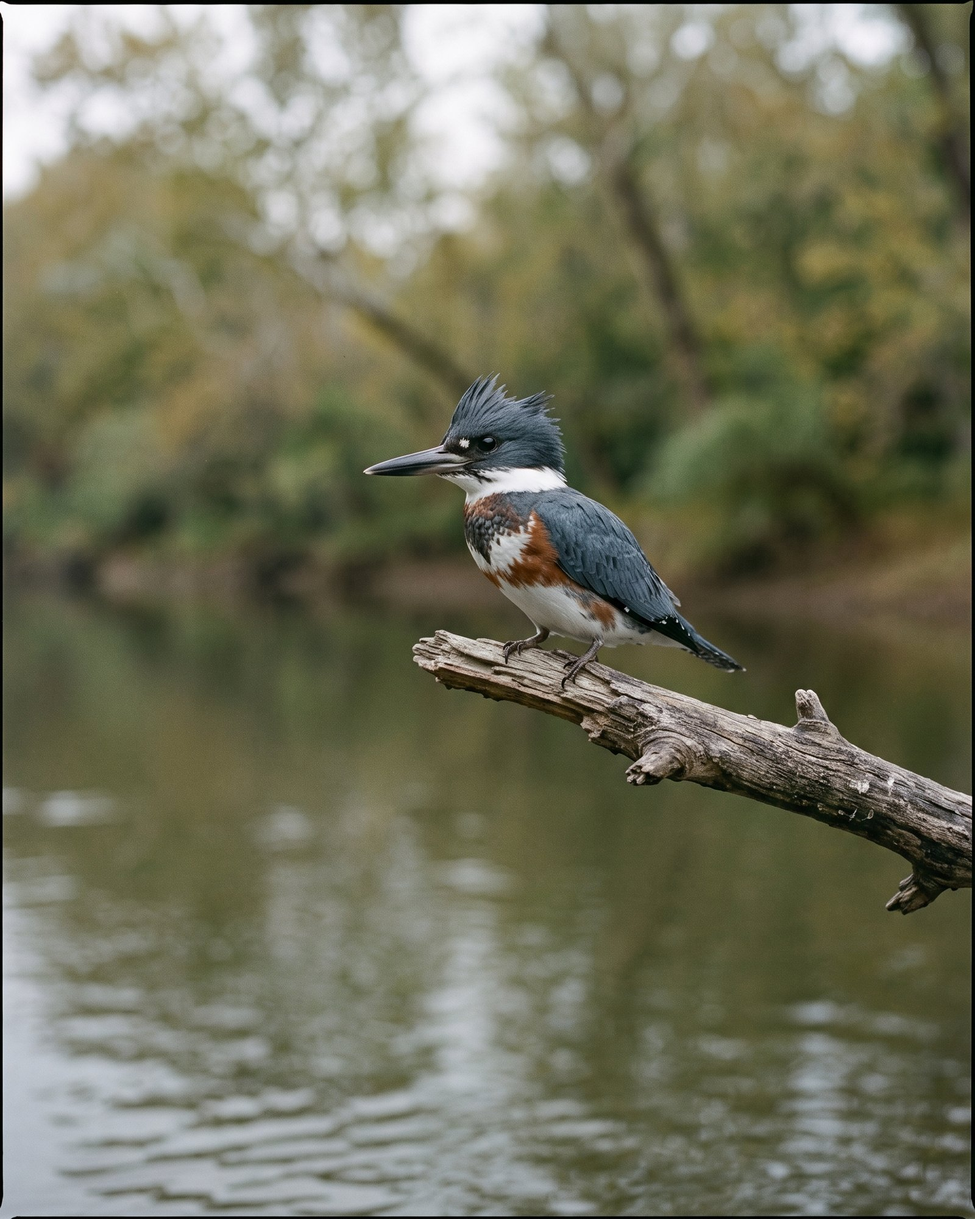
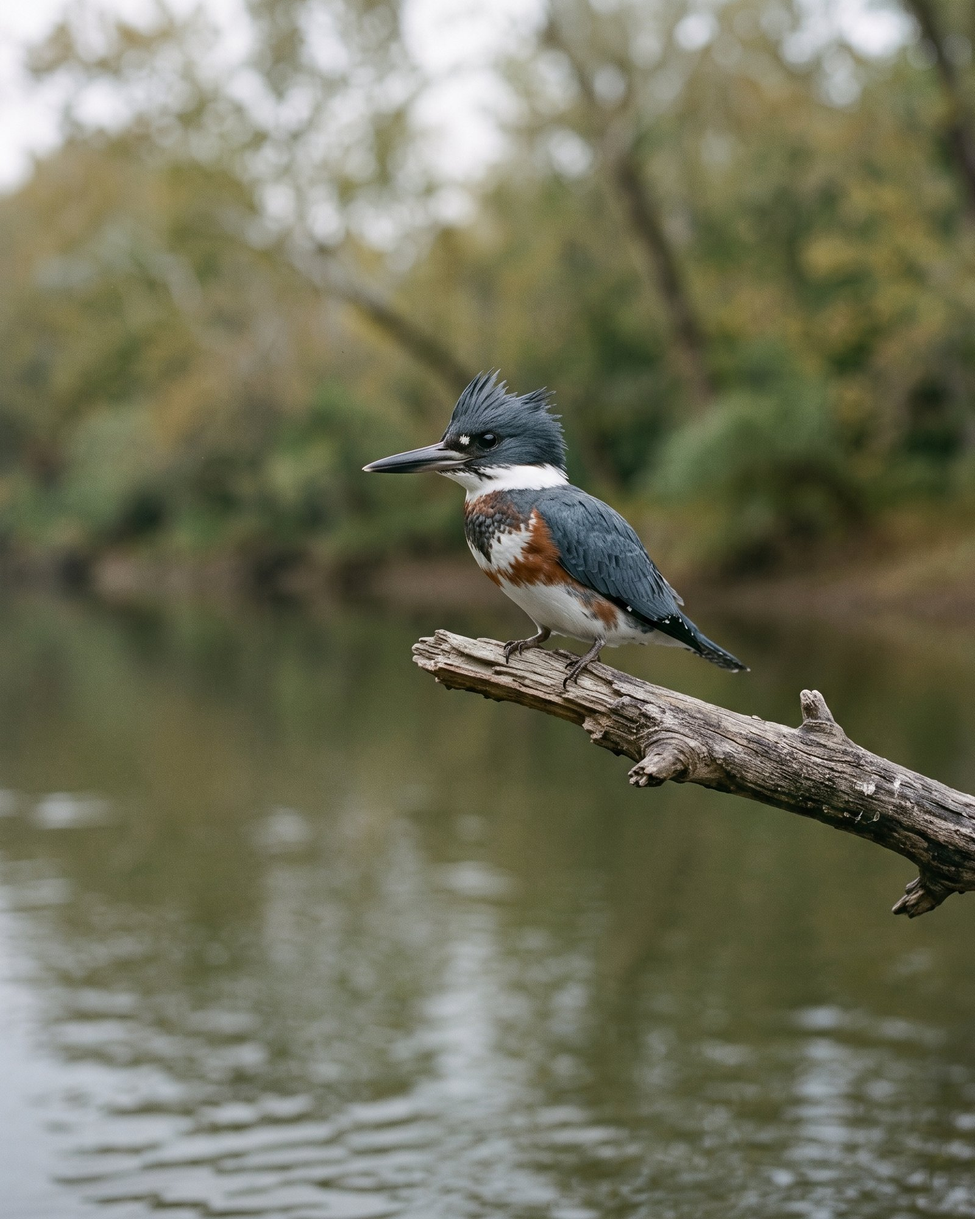
Sallow River Alliance: no dark frames, lighter pages
Gemini drew a thin dark frame round three portrait photos; cut off.
WebP quality set explicitly (62; the config value never reached the
URLs) and the Newsreader italic font dropped: the logo, pull quotes,
month headings and step numbers are upright now. Lighthouse performance
back to 93-98 with the real photos.

diff --git a/app/assets/css/main.css b/app/assets/css/main.css
@@ -9,13 +9,6 @@
   font-display: swap;
 }
 @font-face {
-  font-family: 'Newsreader';
-  src: url('/fonts/newsreader-latin-wght-italic.woff2') format('woff2');
-  font-weight: 200 800;
-  font-style: italic;
-  font-display: swap;
-}
-@font-face {
   font-family: 'Public Sans';
   src: url('/fonts/public-sans-latin-wght-normal.woff2') format('woff2');
   font-weight: 100 900;
@@ -242,7 +235,7 @@ a:hover {
   margin: 2.4rem 0;
   padding: 0.2rem 0 0.2rem 1.5rem;
   border-left: 4px solid var(--marigold);
-  font: italic 400 clamp(1.5rem, 2.8vw, 2.1rem) / 1.3 var(--serif);
+  font: 350 clamp(1.5rem, 2.8vw, 2.1rem) / 1.3 var(--serif);
   color: var(--bark);
 }
 .prose blockquote p {

diff --git a/app/components/Photo.vue b/app/components/Photo.vue
@@ -13,7 +13,7 @@ const img = useImage()
 const files = useAppConfig().imageFiles
 const { data: images } = await useAsyncData('images', () => queryCollection('images').first())
 const src = computed(() => `/images/${files[props.name] ?? `${props.name}.jpg`}`)
-const url = (width) => img(src.value, { width, format: 'webp' })
+const url = (width) => img(src.value, { width, format: 'webp', quality: 62 })
 const srcset = computed(() => widths.map((w) => `${url(w)} ${w}w`).join(', '))
 const alt = computed(() => images.value?.alt?.[props.name] ?? '')
 </script>

diff --git a/nuxt.config.ts b/nuxt.config.ts
@@ -32,7 +32,6 @@ export default defineNuxtConfig({
   // the site is generated.
   image: {
     format: ['webp'],
-    quality: 76,
     densities: [1, 2],
     screens: { sm: 480, md: 800, lg: 1200, xl: 1600 },
   },

diff --git a/app/pages/volunteer.vue b/app/pages/volunteer.vue
@@ -169,8 +169,8 @@ useHead({
 }
 .month h2 {
   font-size: clamp(1.6rem, 2.6vw, 2.2rem);
-  font-style: italic;
-  font-weight: 400;
+  font-weight: 300;
+  color: var(--moss);
   padding-top: 1.6rem;
   margin: 0;
 }

diff --git a/app/pages/index.vue b/app/pages/index.vue
@@ -245,7 +245,7 @@ useHead({ titleTemplate: '%s' })
 }
 .n {
   display: block;
-  font: italic 400 1.4rem/1 var(--serif);
+  font: 300 1.4rem/1 var(--serif);
   color: var(--clay);
   margin-bottom: 1.2rem;
 }

diff --git a/app/components/SiteHeader.vue b/app/components/SiteHeader.vue
@@ -71,7 +71,9 @@ const close = () => menu.value?.hidePopover?.()
   letter-spacing: -0.01em;
 }
 .name em {
+  font-style: normal;
   font-weight: 400;
+  color: var(--moss);
 }
 .nav {
   display: flex;
